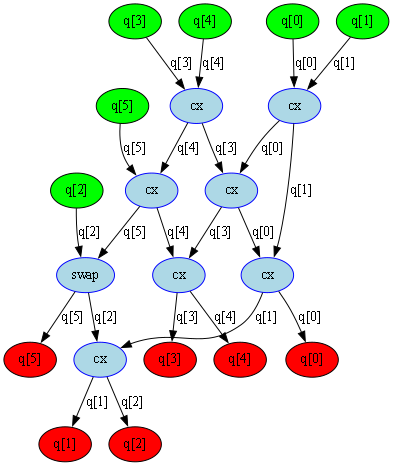
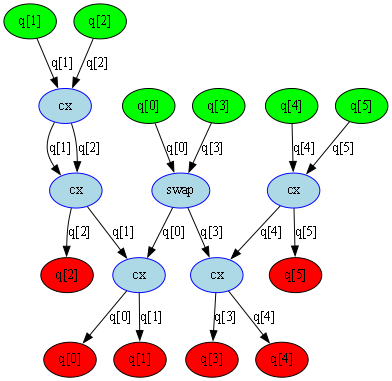
Almost there in terms of functionality, but in dire need of a refactor

diff --git a/ZCswap_gaps.py b/ZCswap_gaps.py
@@ -76,7 +76,7 @@ class SabreSwap(TransformationPass):
         self.dist_matrix = None
         # zc -------
         self.phy_qubits = None
-        self.gap_storage = None
+        self.gap_storage = dict[int, list[DAGOpNode]]
         self.gate_storage = None
         # zc -------
 
@@ -93,46 +93,166 @@ class SabreSwap(TransformationPass):
         # * zc Applies the gate onto the current dag, after transforming the gate
         new_node = _transform_gate_for_layout(node, current_layout, canonical_register)
 
-        v0, v1 = (
+        gate_control, gate_target = (
             current_layout._v2p[new_node.qargs[0]],
             current_layout._v2p[new_node.qargs[1]],
         )
 
         print(
             Panel(
-                f"Attempting application of {node.name} gate on qubits {v0} and {v1}",
+                f"Attempting application of {node.name} gate on qubits {gate_control} and {gate_target}",
                 highlight=True,
             )
         )
 
-        for i in range(min(v0, v1) + 1, max(v0, v1)):
+        # we can make any qubits inbetween the gate a gap.
+        for i in range(
+            min(gate_control, gate_target) + 1, max(gate_control, gate_target)
+        ):
             print(f"{i} is free")
             self.gap_storage[i] = Gap.FREE
 
         # * The "and" is required here to ensure that the 2 gates are not applied on the same qubits, as there would be no option there.
-        if self.gap_storage[v0] == Gap.CONTROL and self.gap_storage[v1] != Gap.TARGET:
-            print(f"Found potential control match on qubit {v0}")
-            self.test_rule(mapped_dag, new_node)
+        if (
+            self.gap_storage[gate_control] == Gap.CONTROL
+            and self.gap_storage[gate_target] != Gap.TARGET
+        ):
+            print(f"Found potential control match on qubit {gate_control}")
+            # self.test_rule(mapped_dag, new_node)
+
+            prior = self.gate_storage[gate_control]
+            prior_control, prior_target = (
+                current_layout._v2p[prior.qargs[0]],
+                current_layout._v2p[prior.qargs[1]],
+            )
+            print(f"prior gate on qubits {prior_control}, {prior_target}")
+
+            if self.apply_before(mapped_dag, prior, new_node):
+                print("we should apply the new node before")
+                mapped_dag.apply_operation_back(
+                    new_node.op, new_node.qargs, new_node.cargs
+                )
+                self.gap_storage[prior_control] = Gap.CONTROL
+                self.gap_storage[prior_target] = Gap.TARGET
+
+                # since we applied the prior gate second, the storage doesn't have to update
+                self.gate_storage[prior_control], self.gate_storage[prior_target] = (
+                    prior,
+                    prior,
+                )
+            else:
+                print("we should do it the same way")
+                # Apply the prior gate and save the new one
+                mapped_dag.apply_operation_back(prior.op, prior.qargs, prior.cargs)
+
+                self.gap_storage[gate_control] = Gap.CONTROL
+                self.gap_storage[gate_target] = Gap.TARGET
+
+                # remove the prior from storage
+                self.gate_storage[prior_control], self.gate_storage[prior_target] = (
+                    [],
+                    [],
+                )
+                # and put the new gate in
+                self.gate_storage[gate_control], self.gate_storage[gate_target] = (
+                    new_node,
+                    new_node,
+                )
 
             # TODO Need to trial the current layout and mapping, and determine if applying the rule will decrease depth
             # TODO If it doesnt, we will keep the current setup, but if it does we will swap execution
             # TODO we can do this using the current mapped dag, copying it, and applying the gate before/after. This will include the prior stored gate under the gap. If we are applying it early, we apply the newer gate first (to fit it in) and then the previous gate can stay in storage (gaps will need to be updated here as well), otherwise, the prior gate will be applied and the new gate will be put into the storage, along with the updated gaps from the prior gate.
 
-        elif self.gap_storage[v1] == Gap.TARGET and self.gap_storage[v0] != Gap.CONTROL:
-            print(f"Found potential target match on qubit {v0}")
+        elif (
+            self.gap_storage[gate_target] == Gap.TARGET
+            and self.gap_storage[gate_control] != Gap.CONTROL
+        ):
+            print(f"Found potential target match on qubit {gate_target}")
+
+            prior = self.gate_storage[gate_target]
+            prior_control, prior_target = (
+                current_layout._v2p[prior.qargs[0]],
+                current_layout._v2p[prior.qargs[1]],
+            )
+            print(f"prior gate on qubits {prior_control}, {prior_target}")
+
+            if self.apply_before(mapped_dag, prior, new_node):
+                print("we should apply the new node before")
+                mapped_dag.apply_operation_back(
+                    new_node.op, new_node.qargs, new_node.cargs
+                )
+                self.gap_storage[gate_control] = Gap.FREE
+                self.gap_storage[prior_control] = Gap.CONTROL
+                self.gap_storage[prior_target] = Gap.TARGET
+
+                # since we applied the prior gate second, the storage doesn't have to update
+                self.gate_storage[prior_control], self.gate_storage[prior_target] = (
+                    prior,
+                    prior,
+                )
+            else:
+                print("we should do it the same way")
+                # Apply the prior gate and save the new one
+                mapped_dag.apply_operation_back(prior.op, prior.qargs, prior.cargs)
+
+                self.gap_storage[prior_target] = Gap.FREE
+                self.gap_storage[gate_control] = Gap.CONTROL
+                self.gap_storage[gate_target] = Gap.TARGET
+
+                # remove the prior from storage
+                self.gate_storage[prior_control], self.gate_storage[prior_target] = (
+                    [],
+                    [],
+                )
+                # and put the new gate in
+                self.gate_storage[gate_control], self.gate_storage[gate_target] = (
+                    new_node,
+                    new_node,
+                )
+
+            # we need to test both applications, both forward and back
 
         else:
-            self.gate_storage[v0], self.gate_storage[v1] = node, node
+            self.gate_storage[gate_control], self.gate_storage[gate_target] = (
+                new_node,
+                new_node,
+            )
 
-        self.gap_storage[v0], self.gap_storage[v1] = Gap.CONTROL, Gap.TARGET
+        self.gap_storage[gate_control], self.gap_storage[gate_target] = (
+            Gap.CONTROL,
+            Gap.TARGET,
+        )
 
         print(self.gate_storage)
 
         if self.fake_run:
             return new_node
-        return mapped_dag.apply_operation_back(
-            new_node.op, new_node.qargs, new_node.cargs
-        )
+        # return mapped_dag.apply_operation_back(
+        #     new_node.op, new_node.qargs, new_node.cargs
+        # )
+
+    def apply_before(
+        self, mapped_dag: DAGCircuit, prior_node: DAGOpNode, new_node: DAGOpNode
+    ) -> bool:
+        trial1 = deepcopy(mapped_dag)
+        trial1.apply_operation_back(prior_node.op, prior_node.qargs, prior_node.cargs)
+        trial1.apply_operation_back(new_node.op, new_node.qargs, new_node.cargs)
+        score1 = trial1.properties()["depth"]
+
+        trial2 = deepcopy(mapped_dag)
+        trial2.apply_operation_back(new_node.op, new_node.qargs, new_node.cargs)
+        trial2.apply_operation_back(prior_node.op, prior_node.qargs, prior_node.cargs)
+        score2 = trial2.properties()["depth"]
+
+        print(f"Applied new gate last and got depth {score1}")
+        print(f"Applied new gate first and got depth {score2}")
+
+        if score1 > score2:
+            # if the depth applying the new node first is lower, we apply first
+            # This is only explicitly done if there is a depth decrease, otherwise no change is made
+            return True
+        else:
+            return False
 
     def test_rule(self, mapped_dag: DAGCircuit, node: DAGOpNode) -> int:
         """Tries an application of a gate and returns the depth"""
@@ -213,11 +333,12 @@ class SabreSwap(TransformationPass):
             new_front_layer = []
             for node in front_layer:
                 if len(node.qargs) == 2:
-                    v0, v1 = node.qargs
+                    gate_control, gate_target = node.qargs
                     # Accessing layout._v2p directly to avoid overhead from __getitem__ and a
                     # single access isn't feasible because the layout is updated on each iteration
                     if self.coupling_map.graph.has_edge(
-                        current_layout._v2p[v0], current_layout._v2p[v1]
+                        current_layout._v2p[gate_control],
+                        current_layout._v2p[gate_target],
                     ):
                         execute_gate_list.append(node)
                         # * if the qubits are connected, we can execute it straight away

diff --git a/main.py b/main.py
@@ -64,7 +64,6 @@ def main() -> None:
     # Run the Sabre layout and get the initial mapping
     mapped_circuit = pm.run(circuit_in)
     mapped_dag = circuit_to_dag(mapped_circuit)
-
     print(mapped_dag.properties())
 
     # Commutation cancelation attempt
@@ -77,7 +76,7 @@ def main() -> None:
     # with open("commutation_pass_output.txt", "w") as f:
     #     print(property_set["commutation_set"], file=f)
 
-    inital_mapping = mapped_circuit.layout.final_layout
+    inital_mapping = mapped_circuit.layout.initial_layout
     print(f"Inititial mapping: {inital_mapping}")
     draw_circuit(mapped_circuit, "mapped")
 
